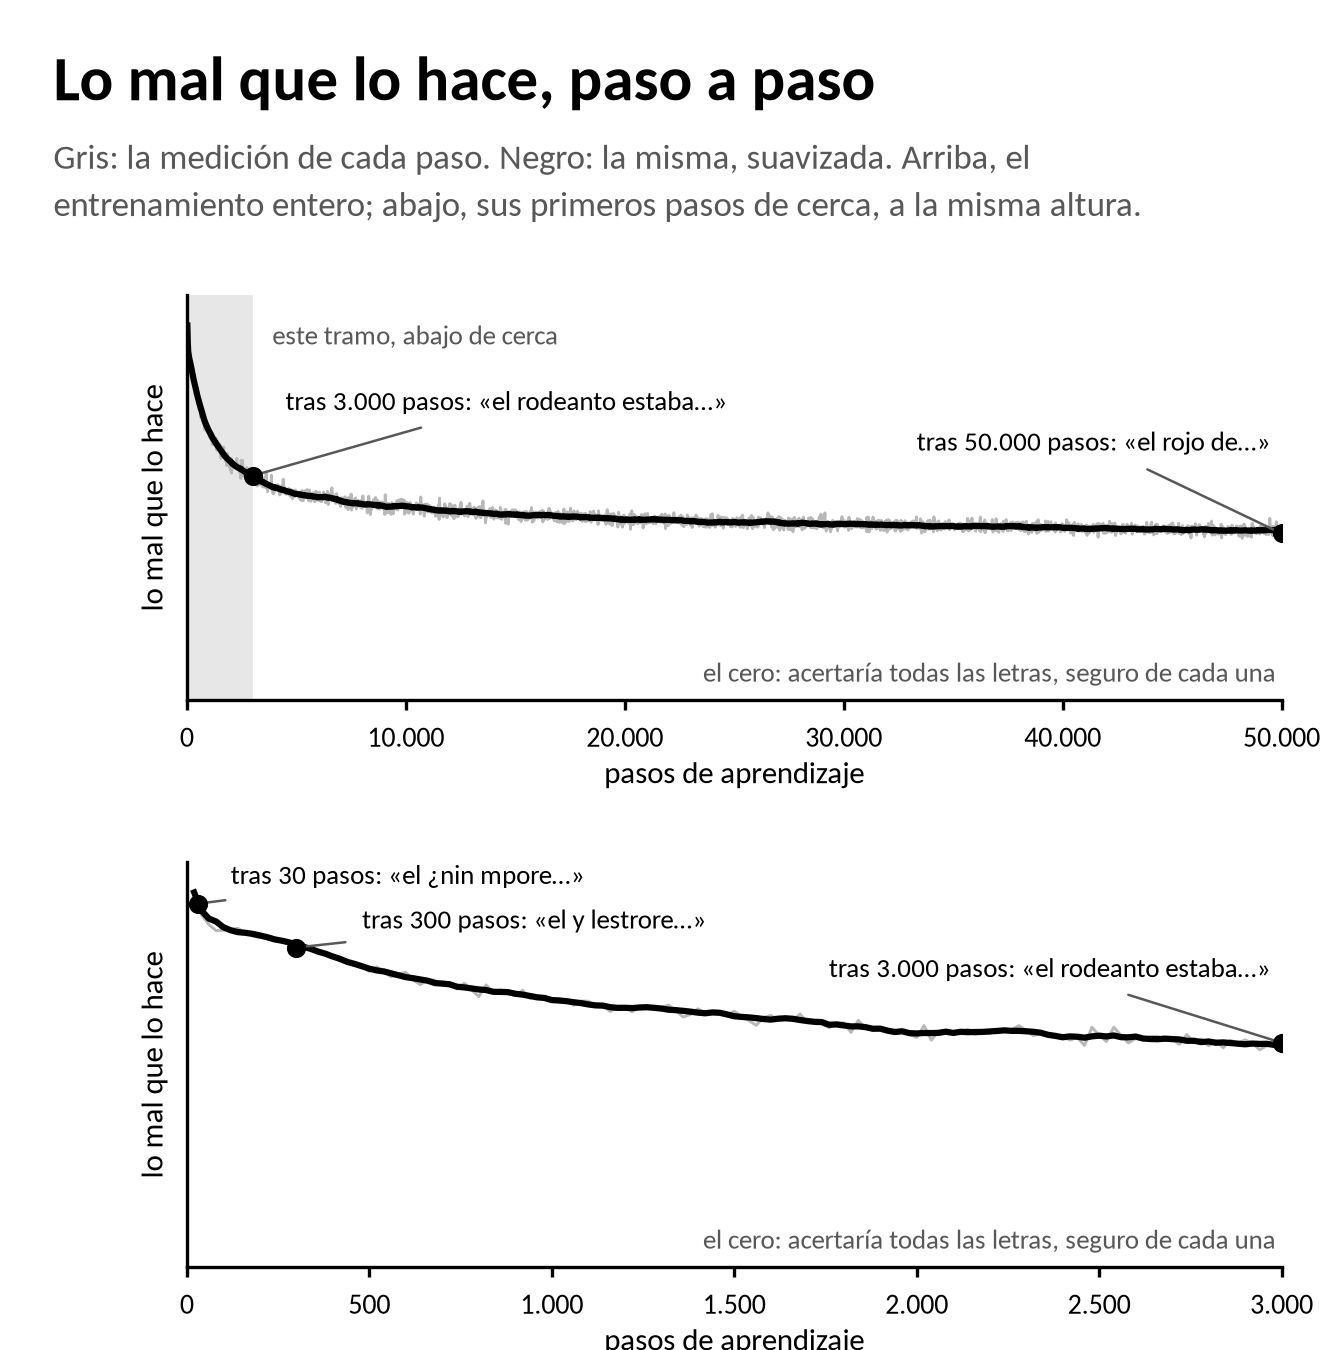
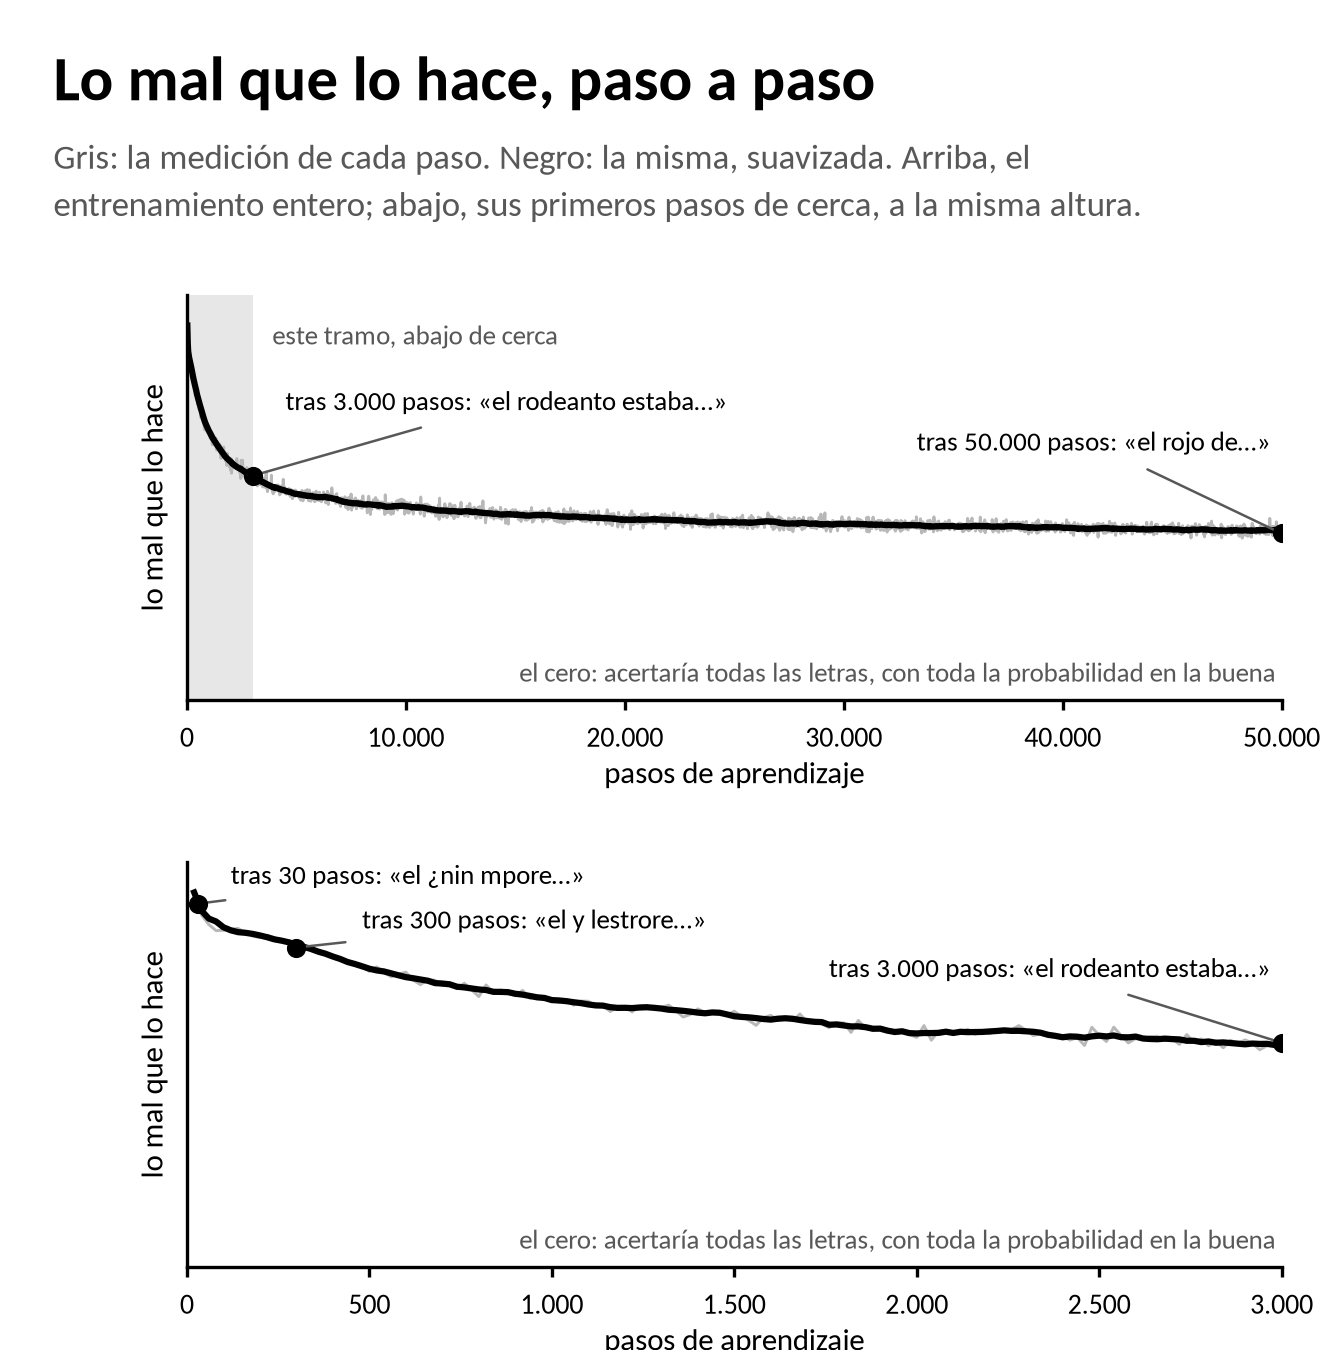
Orden 12: rótulo de lo_mal_que_lo_hace sin «seguro de cada una»; cuenta_el_repositorio al día
figura_lo_mal_que_lo_hace.py: «el cero: acertaría todas las letras, con toda la probabilidad en la
buena» (la máquina no está segura de nada; regla 5 quater). Excepción de la regla 6: cambia un rótulo,
no un número; rehecha desde sus datos guardados, sin entrenar; solo difieren los dos rótulos.
cuenta_el_repositorio.txt vuelta a ejecutar: 162 programas (13, 59, 82, 8); el nuevo es
maquina_entera_pasos.

Changed region(s): [[0.3993, 0.9022, 0.9213, 0.9333], [0.4607, 0.4978, 0.8906, 0.5289], [0.3993, 0.4978, 0.43, 0.5289]]

diff --git a/codigo/figura_lo_mal_que_lo_hace.py b/codigo/figura_lo_mal_que_lo_hace.py
@@ -119,7 +119,7 @@ def dibujar(curva, retratos, paleta, ruta):
         ax.xaxis.set_major_formatter(__import__("matplotlib.pyplot").pyplot.FuncFormatter(
             lambda x, _: miles(int(x))))
         ax.set_ylabel("lo mal que lo hace", fontsize=7.4, color=p.tinta)
-        ax.text(x1, tope * 0.03, "el cero: acertaría todas las letras, seguro de cada una ",
+        ax.text(x1, tope * 0.03, "el cero: acertaría todas las letras, con toda la probabilidad en la buena ",
                 ha="right", va="bottom", fontsize=6.4, color=p.suave)
         for paso, rotulo in retratos:
             if not (x0 < paso <= x1):
